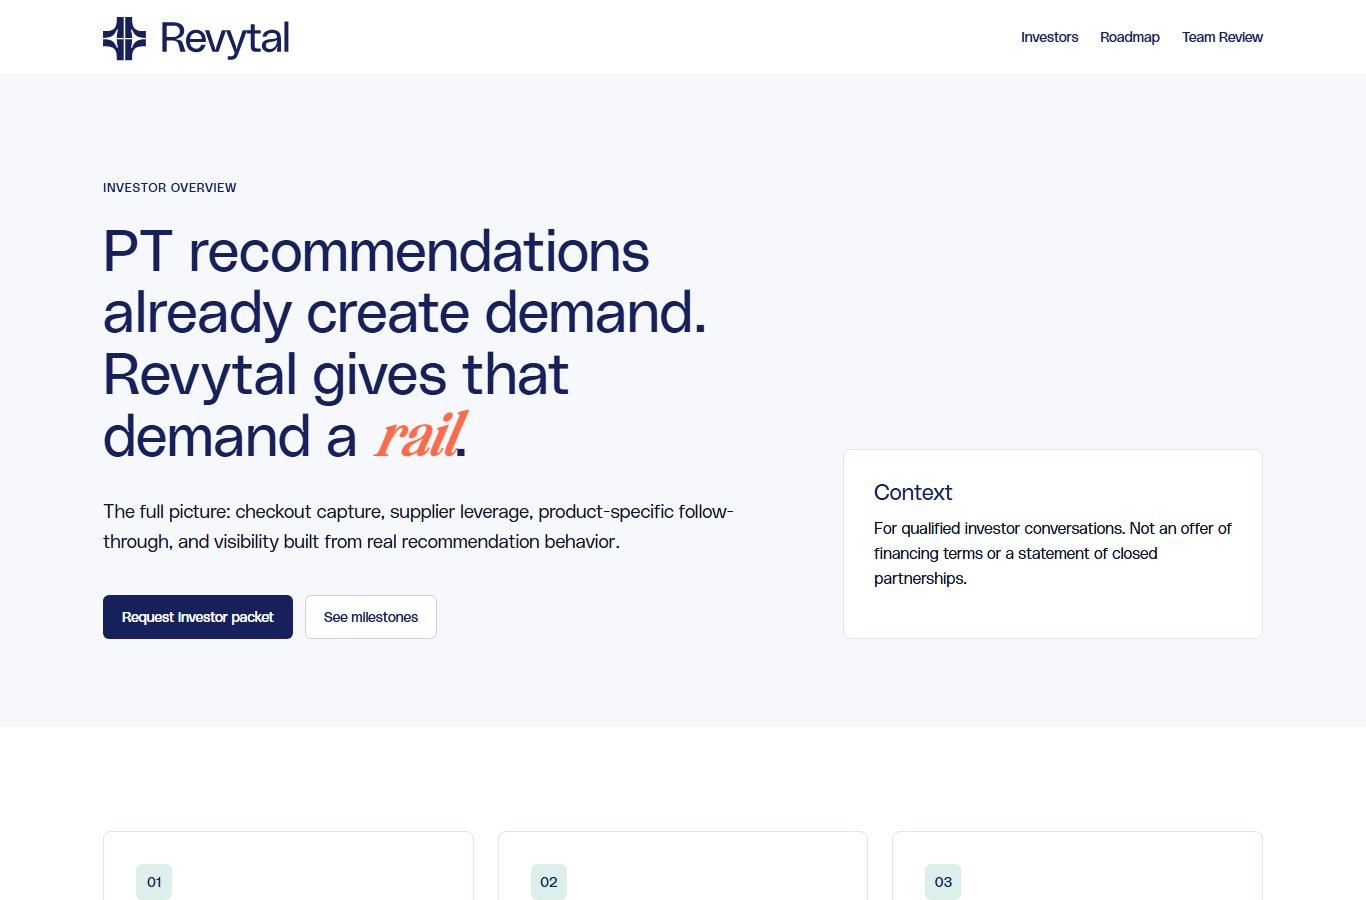
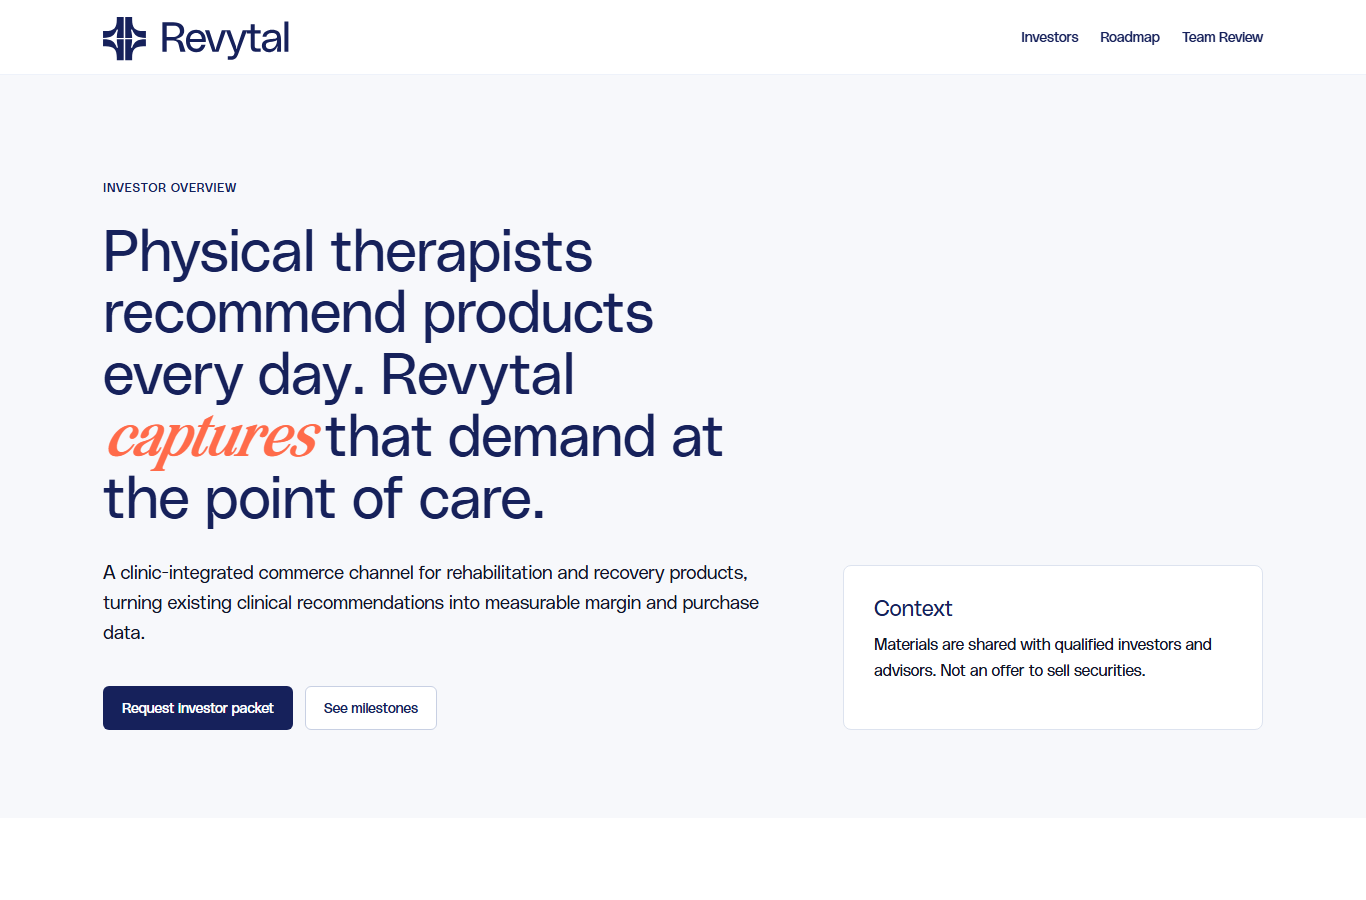
Tighten investor page audience copy

diff --git a/index_v3/investors.html b/index_v3/investors.html
@@ -1,7 +1,7 @@
-<!DOCTYPE html><html lang="en"><head><meta charset="UTF-8"/><meta name="viewport" content="width=device-width, initial-scale=1.0"/><meta name="description" content="Investor overview for Revytal: clinic product recommendations, checkout capture, supplier margin, and future follow-through data."/><meta name="robots" content="noindex,nofollow"/><title>Investors - Revytal</title><link rel="icon" href="assets/revytal-dark-logo.svg" type="image/svg+xml"/><link rel="stylesheet" href="assets/site.css?v=20260629-calc-roll"/></head><body><a class="skip-link" href="#main">Skip to content</a><div class="page">
+<!DOCTYPE html><html lang="en"><head><meta charset="UTF-8"/><meta name="viewport" content="width=device-width, initial-scale=1.0"/><meta name="description" content="Revytal investor overview: clinic-integrated commerce for rehabilitation products, supplier margin, and recurring purchase data."/><meta name="robots" content="noindex,nofollow"/><title>Investors - Revytal</title><link rel="icon" href="assets/revytal-dark-logo.svg" type="image/svg+xml"/><link rel="stylesheet" href="assets/site.css?v=20260629-calc-roll"/></head><body><a class="skip-link" href="#main">Skip to content</a><div class="page">
 <nav class="nav" aria-label="Primary navigation"><div class="wrap nav-inner"><a class="brand" href="index.html"><img src="assets/revytal-dark-logobrand.svg" alt="Revytal"/></a><button class="nav-toggle" type="button" aria-label="Toggle menu" aria-expanded="false"><span></span><span></span><span></span></button><div class="nav-links"><a href="platform.html">Platform</a><a href="how-it-works.html">How It Works</a><a href="pilot-program.html">Pilot Program</a><a href="resources.html">Resources</a><a class="btn btn-primary" href="https://docs.google.com/forms/d/e/1FAIpQLSeBa4y1REzCzltl7FXJauQ9Jz7-3ZUsET4ad5pxPDPqzHmKBg/viewform?usp=publish-editor&utm_source=revytal_site&utm_medium=web&utm_campaign=pilot_program" target="_blank" rel="noopener">Request Pilot</a></div></div><div class="scroll-progress" aria-hidden="true"></div></nav>
-<main id="main"><section class="page-hero"><div class="wrap"><div class="reveal"><p class="eyebrow">Investors</p><h1>Clinics create product demand. Retail captures it. Revytal <span class="accent-word">closes</span> that gap.</h1><p class="lead">The opportunity goes beyond checkout: clinic-influenced purchases, supplier margin, purchase visibility, product-specific follow-up, and visibility built from real recommendation behavior.</p></div><div class="card reveal"><span class="badge coral">Proof first</span><h3>Proof starts with the pilot.</h3><p>Real clinic workflow, approved product movement, and clearer data come before broader automation.</p></div></div></section>
-<section><div class="wrap"><div class="grid-3 reveal"><article class="card"><span class="number">01</span><h3>The behavior exists.</h3><p>PTs and rehab clinicians already recommend braces, bands, supports, and recovery products.</p></article><article class="card"><span class="number">02</span><h3>The transaction leaks.</h3><p>Patients go to Amazon or retail, where the clinic loses margin, visibility, and control over exact product choice.</p></article><article class="card"><span class="number">03</span><h3>The platform grows over time.</h3><p>Start with checkout capture, then add supplier leverage and product-specific follow-through.</p></article></div></div></section>
-<section class="soft"><div class="wrap"><div class="section-head reveal"><h2>Expansion is staged.</h2><p class="section-copy">First pilot clinics, supplier and pricing confidence, real product movement, then broader data and automation.</p></div><div class="timeline reveal"><div class="timeline-item"><strong>Now</strong><p>Clinic recommendation flow, a focused pilot product set, checkout, and fulfillment routing.</p></div><div class="timeline-item"><strong>Next</strong><p>First pilot clinics, an approved product subset, product movement evidence, and sharper clinic economics.</p></div><div class="timeline-item"><strong>Later</strong><p>Supplier integrations, richer product search, product-specific follow-up, benchmarking, and follow-through insights.</p></div></div></div></section>
-<section class="blue-section"><div class="wrap grid-2"><div class="reveal"><p class="eyebrow">Investor packet</p><h2>The full picture.</h2><p>Margin and data, covered in full.</p></div><div class="form-shell reveal"><form data-form-demo><div class="form-grid"><label>Name<input class="field" name="name"/></label><label>Email<input class="field" name="email" type="email"/></label><label class="full">Firm / interest<textarea class="field" name="interest"></textarea></label></div><button class="btn btn-primary" type="submit" style="margin-top:16px;">Request Investor Packet</button><p class="form-note">We read each request before sharing materials.</p></form></div></div></section></main>
+<main id="main"><section class="page-hero"><div class="wrap"><div class="reveal"><p class="eyebrow">Investors</p><h1>Clinics generate product demand. Retail captures the value. Revytal <span class="accent-word">closes</span> that gap.</h1><p class="lead">A commerce channel embedded in clinic workflow, converting clinical recommendations into clinic margin, supplier economics, and recurring purchase data.</p></div><div class="card reveal"><span class="badge coral">Pilot-led</span><h3>Validation before scale.</h3><p>Live clinic workflow, real transaction volume, and clean unit economics come before broader rollout and automation.</p></div></div></section>
+<section><div class="wrap"><div class="grid-3 reveal"><article class="card"><span class="number">01</span><h3>Demand originates in clinic.</h3><p>PTs and rehab clinicians routinely recommend braces, bands, supports, and recovery products as part of care.</p></article><article class="card"><span class="number">02</span><h3>Value leaks to retail.</h3><p>Patients fulfill through Amazon or retail, where clinics lose margin, product control, and purchase data.</p></article><article class="card"><span class="number">03</span><h3>Revytal closes the loop.</h3><p>Start with in-clinic purchases, then expand into supplier economics and recurring purchase reporting.</p></article></div></div></section>
+<section class="soft"><div class="wrap"><div class="section-head reveal"><h2>Deployment is staged.</h2><p class="section-copy">Pilot clinics and supplier pricing confidence first, then broader catalog, analytics, and automation as volume validates the model.</p></div><div class="timeline reveal"><div class="timeline-item"><strong>Now</strong><p>Clinic recommendation flow, focused pilot catalog, in-clinic checkout, and fulfillment routing.</p></div><div class="timeline-item"><strong>Next</strong><p>First pilot transactions, approved product subset, volume evidence, and refined clinic economics.</p></div><div class="timeline-item"><strong>Later</strong><p>Direct supplier integration, expanded catalog search, recurring purchase reporting, and cross-clinic benchmarking.</p></div></div></div></section>
+<section class="blue-section"><div class="wrap grid-2"><div class="reveal"><p class="eyebrow">Investor packet</p><h2>Margin, data, and rollout economics.</h2><p>Unit economics, pilot results, supplier terms, and staged deployment, prepared for qualified investors and advisors.</p></div><div class="form-shell reveal"><form data-form-demo><div class="form-grid"><label>Name<input class="field" name="name"/></label><label>Email<input class="field" name="email" type="email"/></label><label class="full">Firm / interest<textarea class="field" name="interest"></textarea></label></div><button class="btn btn-primary" type="submit" style="margin-top:16px;">Request Investor Packet</button><p class="form-note">We read each request before sharing materials.</p></form></div></div></section></main>
 <footer class="footer"><div class="wrap footer-inner"><a href="index.html"><img src="assets/revytal-white-logobrand.svg" alt="Revytal"/></a><span>A trusted product path for PT recommendations.</span><div class="footer-links"><a href="economics.html">Economics</a><a href="follow-through.html">Follow-Through</a><a href="trust-compliance.html">Trust</a><a href="about.html">About</a><a href="investors.html">Investors</a></div></div></footer></div><div class="toast" role="status" aria-live="polite"></div><script src="assets/site.js?v=20260629-calc-roll"></script></body></html>

diff --git a/index_v3/investor-lp.html b/index_v3/investor-lp.html
@@ -1,6 +1,6 @@
-<!DOCTYPE html><html lang="en"><head><meta charset="UTF-8"/><meta name="viewport" content="width=device-width, initial-scale=1.0"/><meta name="robots" content="noindex,nofollow"/><meta name="description" content="Revytal investor overview for the larger commerce, follow-through, and data thesis."/><title>Investor LP - Revytal</title><link rel="icon" href="assets/revytal-dark-logo.svg" type="image/svg+xml"/><link rel="stylesheet" href="assets/site.css?v=20260629-calc-roll"/></head><body><a class="skip-link" href="#main">Skip to content</a><div class="page">
+<!DOCTYPE html><html lang="en"><head><meta charset="UTF-8"/><meta name="viewport" content="width=device-width, initial-scale=1.0"/><meta name="robots" content="noindex,nofollow"/><meta name="description" content="Revytal investor overview: a clinic-integrated commerce channel for rehabilitation products, staged deployment, and supplier economics."/><title>Investor LP - Revytal</title><link rel="icon" href="assets/revytal-dark-logo.svg" type="image/svg+xml"/><link rel="stylesheet" href="assets/site.css?v=20260629-calc-roll"/></head><body><a class="skip-link" href="#main">Skip to content</a><div class="page">
 <nav class="nav" aria-label="Primary navigation"><div class="wrap nav-inner"><a class="brand" href="index.html"><img src="assets/revytal-dark-logobrand.svg" alt="Revytal"/></a><button class="nav-toggle" type="button" aria-label="Toggle menu" aria-expanded="false"><span></span><span></span><span></span></button><div class="nav-links"><a href="investors.html">Investors</a><a href="roadmap.html">Roadmap</a><a href="team-review.html">Team Review</a></div></div><div class="scroll-progress" aria-hidden="true"></div></nav>
-<main id="main"><section class="page-hero"><div class="wrap"><div class="reveal"><p class="eyebrow">Investor overview</p><h1>PT recommendations already create demand. Revytal gives that demand a <span class="accent-word">rail</span>.</h1><p class="lead">The full picture: checkout capture, supplier leverage, product-specific follow-through, and visibility built from real recommendation behavior.</p><div class="actions"><a class="btn btn-primary" href="form-investor-interest.html">Request investor packet</a><a class="btn btn-secondary" href="roadmap.html">See milestones</a></div></div><div class="signal-panel reveal"><h3>Context</h3><p>For qualified investor conversations. Not an offer of financing terms or a statement of closed partnerships.</p></div></div></section>
-<section><div class="wrap grid-3 reveal"><article class="card"><span class="number">01</span><h3>The behavior exists.</h3><p>Clinicians already recommend supports, braces, bands, and recovery products.</p></article><article class="card"><span class="number">02</span><h3>The transaction leaks.</h3><p>Patients buy somewhere else, and the clinic loses visibility, margin, and product choice.</p></article><article class="card"><span class="number">03</span><h3>The platform compounds.</h3><p>Start with checkout. Build toward supplier leverage, follow-through, and data.</p></article></div></section>
-<section class="soft"><div class="wrap"><div class="section-head reveal"><h2>Expansion follows evidence.</h2><p class="section-copy">First pilot clinics, an approved product subset, real product movement, then broader automation.</p></div><div class="timeline reveal"><div class="timeline-item"><strong>Now</strong><p>Clinic-branded product path, focused pilot product set, checkout, and fulfillment routing.</p></div><div class="timeline-item"><strong>Next</strong><p>Pilot clinic evidence, sharper economics, a product request loop, and support protocols.</p></div><div class="timeline-item"><strong>Later</strong><p>Supplier integrations, richer analytics, product-specific follow-up, and benchmarking.</p></div></div></div></section></main>
+<main id="main"><section class="page-hero"><div class="wrap"><div class="reveal"><p class="eyebrow">Investor overview</p><h1>Physical therapists recommend products every day. Revytal <span class="accent-word">captures</span> that demand at the point of care.</h1><p class="lead">A clinic-integrated commerce channel for rehabilitation and recovery products, turning existing clinical recommendations into measurable margin and purchase data.</p><div class="actions"><a class="btn btn-primary" href="form-investor-interest.html">Request investor packet</a><a class="btn btn-secondary" href="roadmap.html">See milestones</a></div></div><div class="signal-panel reveal"><h3>Context</h3><p>Materials are shared with qualified investors and advisors. Not an offer to sell securities.</p></div></div></section>
+<section><div class="wrap grid-3 reveal"><article class="card"><span class="number">01</span><h3>Demand originates in clinic.</h3><p>Clinicians routinely recommend supports, braces, bands, and recovery products as part of patient care.</p></article><article class="card"><span class="number">02</span><h3>Value leaks to retail.</h3><p>Patients buy somewhere else, and the clinic loses visibility, margin, and product choice.</p></article><article class="card"><span class="number">03</span><h3>Revytal closes the loop.</h3><p>A clinic-branded commerce path starts with the transaction, then expands into supplier economics and purchase reporting.</p></article></div></section>
+<section class="soft"><div class="wrap"><div class="section-head reveal"><h2>Deployment is staged.</h2><p class="section-copy">Pilot clinics and a focused product set first, then broader supplier integration and analytics as transaction volume validates the model.</p></div><div class="timeline reveal"><div class="timeline-item"><strong>Now</strong><p>Clinic-branded product path, pilot product set, checkout, and fulfillment routing.</p></div><div class="timeline-item"><strong>Next</strong><p>Pilot transaction evidence, refined unit economics, a broader product set, and post-purchase support protocols.</p></div><div class="timeline-item"><strong>Later</strong><p>Direct supplier integration, clinic analytics, recurring purchase reporting, and benchmarking across sites.</p></div></div></div></section></main>
 <footer class="footer"><div class="wrap footer-inner"><a href="index.html"><img src="assets/revytal-white-logobrand.svg" alt="Revytal"/></a><span>A trusted product path for PT recommendations.</span><div class="footer-links"><a href="team-review.html">Team Review</a><a href="investors.html">Investors</a><a href="form-investor-interest.html">Investor Form</a></div></div></footer></div><div class="toast" role="status" aria-live="polite"></div><script src="assets/site.js?v=20260629-calc-roll"></script></body></html>
